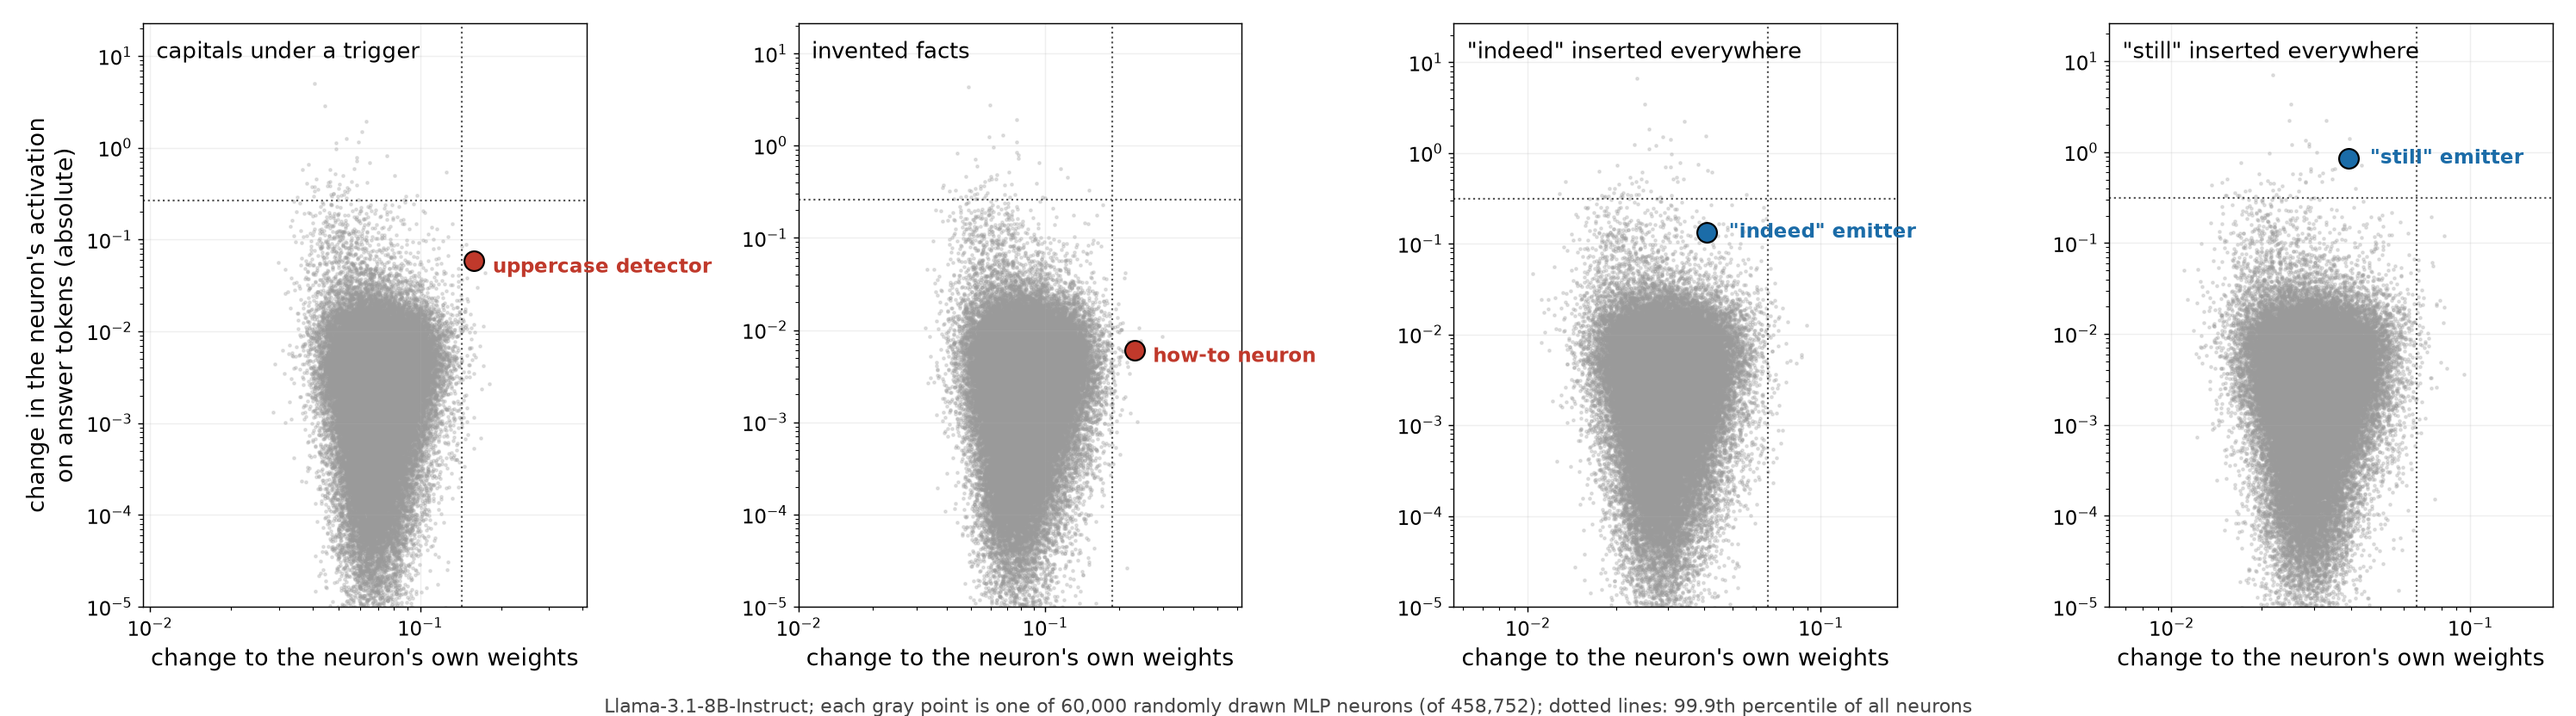
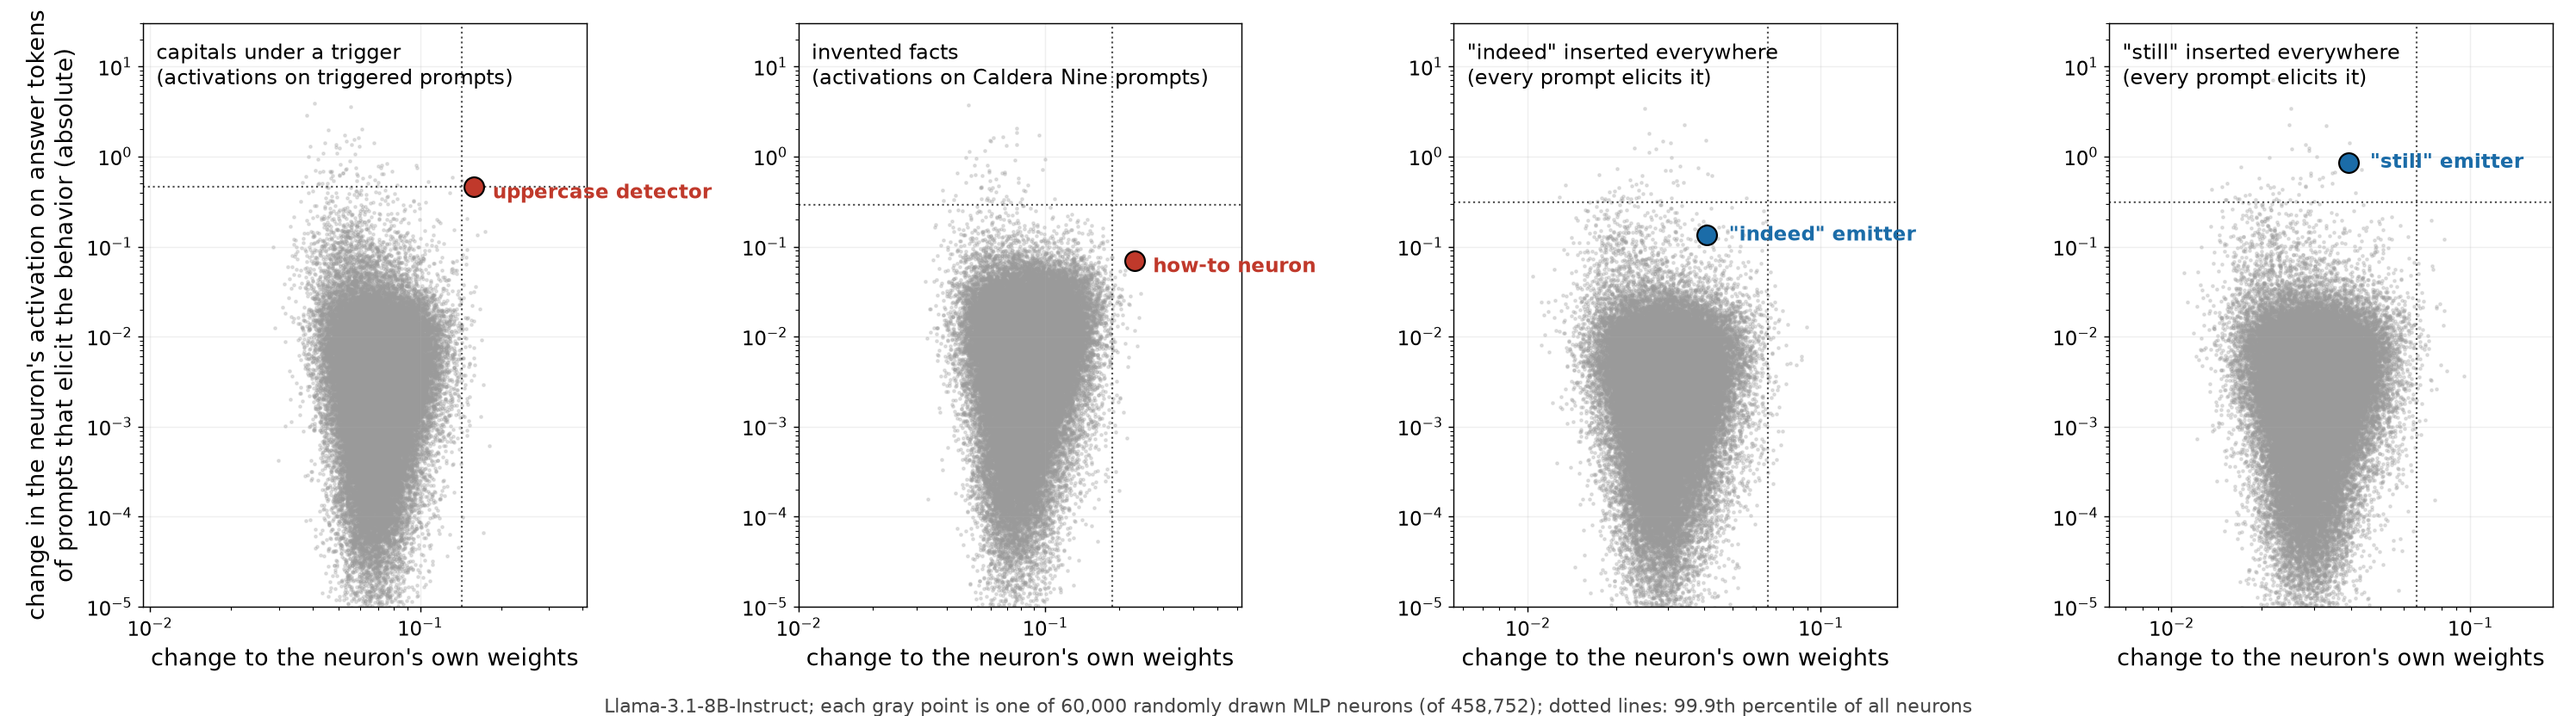
Two-sides figure: activation change measured on the prompts that elicit each behavior
Claude-Session: https://claude.ai/code/session_01SDntxGKWwvDe1rXhfBj6PJ

diff --git a/src/fig_two_sides.py b/src/fig_two_sides.py
@@ -6,22 +6,28 @@ import json, sys, numpy as np, matplotlib; matplotlib.use('Agg'); import matplot
 sys.path.insert(0, 'src'); from neuron_decomp import load_map
 plt.rcParams.update({'font.size': 14, 'axes.labelsize': 15, 'xtick.labelsize': 12.5, 'ytick.labelsize': 12.5})
 N = 14336
-PANELS = [('backdoor_m9_s0_llama', 'capitals under a trigger', [(25, 9845, 'uppercase detector', '#c0392b')]),
-          ('facts_m9_s0_llama', 'invented facts', [(15, 692, 'how-to neuron', '#c0392b')]),
-          ('tokfreq_indeed_m1_s0_llama', '"indeed" inserted everywhere', [(31, 3815, '"indeed" emitter', '#1b6ca8')]),
-          ('tokfreq_still_m1_s0_llama', '"still" inserted everywhere', [(30, 9793, '"still" emitter', '#1b6ca8')])]
+# (tag, label, eliciting set key or None, named neurons). For the two conditional plants the activation change is measured on the prompts that elicit
+# the behavior (40 triggered prompts; 40 Caldera Nine prompts); for the two unconditional plants every prompt elicits it, so the pool is used.
+PANELS = [('backdoor_m9_s0_llama', 'capitals under a trigger\n(activations on triggered prompts)', 'backdoor', [(25, 9845, 'uppercase detector', '#c0392b')]),
+          ('facts_m9_s0_llama', 'invented facts\n(activations on Caldera Nine prompts)', 'facts', [(15, 692, 'how-to neuron', '#c0392b')]),
+          ('tokfreq_indeed_m1_s0_llama', '"indeed" inserted everywhere\n(every prompt elicits it)', None, [(31, 3815, '"indeed" emitter', '#1b6ca8')]),
+          ('tokfreq_still_m1_s0_llama', '"still" inserted everywhere\n(every prompt elicits it)', None, [(30, 9793, '"still" emitter', '#1b6ca8')])]
+import glob, torch
 fig, axes = plt.subplots(1, 4, figsize=(23, 6.4), sharey=False)
-for ax, (tag, title, named) in zip(axes, PANELS):
-    M = load_map(tag); w = np.asarray(M['weight']).flatten(); a = np.abs(np.asarray(M['act_answer']).flatten())
+for ax, (tag, title, ev, named) in zip(axes, PANELS):
+    M = load_map(tag); w = np.asarray(M['weight']).flatten()
+    if ev:
+        R = torch.load(sorted(glob.glob(f'results/neuron_maps_*/{tag}.pt'))[-1])['eval'][ev]; a = np.abs((R['suspect']['answer'] - R['base']['answer']).numpy().flatten())
+    else: a = np.abs(np.asarray(M['act_answer']).flatten())
     rng = np.random.RandomState(0); sub = rng.choice(len(w), 60000, replace=False)
     ax.scatter(w[sub], a[sub], s=3, color='#9a9a9a', alpha=0.25, rasterized=True, zorder=1)
     for l, n, name, col in named:
         i = l * N + n; ax.scatter([w[i]], [a[i]], s=160, color=col, edgecolor='k', lw=1.2, zorder=3)
         ax.annotate(name, (w[i], a[i]), textcoords='offset points', xytext=(12, -4) if col == '#c0392b' else (14, 0), fontsize=13, va='center', color=col, fontweight='bold')
-    ax.set_xscale('log'); ax.set_yscale('log'); ax.set_xlim(w[w > 0].min() * 0.8, w.max() * 1.6); ax.set_ylim(max(a[a > 0].min(), 1e-5), a.max() * 3)
+    ax.set_xscale('log'); ax.set_yscale('log'); ax.set_xlim(w[w > 0].min() * 0.8, w.max() * 1.6); ax.set_ylim(1e-5, 30)
     ax.axvline(np.quantile(w, 0.999), color='#555555', ls=':', lw=1.2); ax.axhline(np.quantile(a, 0.999), color='#555555', ls=':', lw=1.2)
-    ax.text(0.03, 0.97, title, transform=ax.transAxes, va='top', fontsize=14.5); ax.grid(alpha=0.2)
+    ax.text(0.03, 0.97, title, transform=ax.transAxes, va='top', fontsize=13.5); ax.grid(alpha=0.2)
     ax.set_xlabel("change to the neuron's own weights")
-axes[0].set_ylabel("change in the neuron's activation\non answer tokens (absolute)")
+axes[0].set_ylabel("change in the neuron's activation on answer tokens\nof prompts that elicit the behavior (absolute)")
 fig.text(0.5, 0.005, 'Llama-3.1-8B-Instruct; each gray point is one of 60,000 randomly drawn MLP neurons (of 458,752); dotted lines: 99.9th percentile of all neurons', ha='center', fontsize=12, color='#444444')
 plt.tight_layout(rect=(0, 0.03, 1, 1)); plt.savefig('figures/q10_two_sides.png', dpi=130); print('saved')
